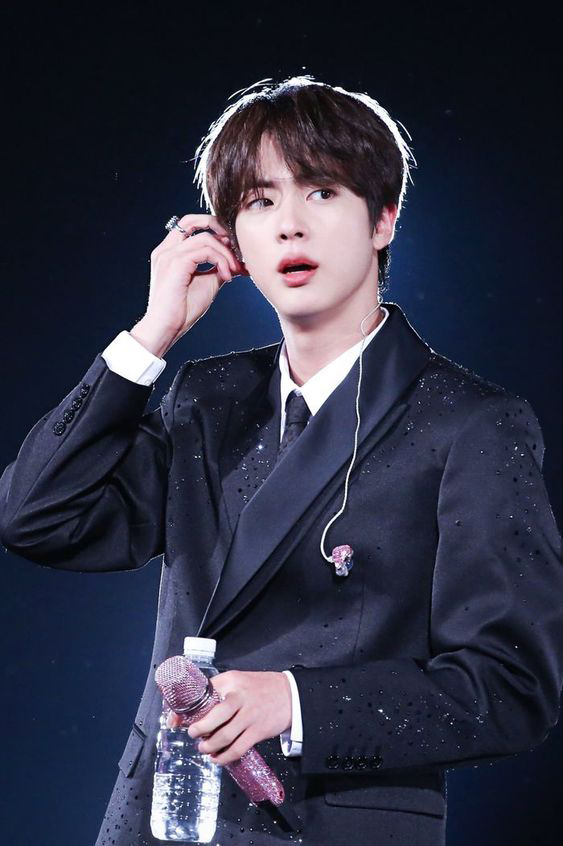
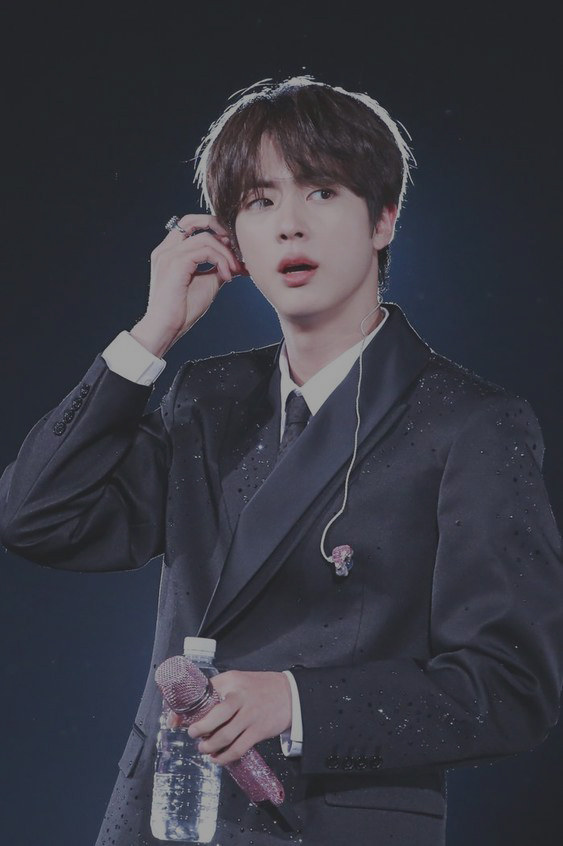
.

diff --git a/css/style.css b/css/style.css
@@ -67,6 +67,7 @@ html::-webkit-scrollbar{
 body{
     -ms-overflow-style: none;
     font-family: "roboto";
+    color: #FEF3F6;
 }
 #wrapper{
     position: absolute;
@@ -84,11 +85,11 @@ body{
     position: fixed;
     width: 100%;
     height: 100vh;
-    background-image: linear-gradient(to bottom, #FE688C ,#FFBBA5);
+    background: rgb(255,181,184);
+background: linear-gradient(45deg, rgba(255,181,184,1) 0%, rgba(229,190,255,1) 50%, rgba(212,235,255,1) 100%);
 }
 #article1{
     position: absolute;
-    color: rgb(255, 255, 255);
     z-index: 1;
     top: 6vw;
     width: 87vw;
@@ -99,7 +100,6 @@ body{
 }
 #article2{
     position: absolute;
-    color: rgb(255, 255, 255);
     z-index: 1;
     top: 0vw;
     width: 87vw;
@@ -109,7 +109,6 @@ body{
 .nav{
     position: fixed;
     font-family: "roboto";
-    color: white;
     font-size: 1.5em;
     margin: 1vw 1vw;
     cursor: pointer;
@@ -169,7 +168,6 @@ body{
 #title{
     position: absolute;
     font-family: "primetime";
-    color: #FEF3F6;
     font-size: 3vw;
     top: 22vw;
     letter-spacing: 0.5em;
@@ -189,7 +187,6 @@ body{
 #area{
     position: absolute;
     font-family: "primetime";
-    color: #FEF3F6;
     font-size: 3vw;
     z-index: 2;
     top: 28vw;
@@ -209,13 +206,11 @@ body{
 #h3_1{
     position: relative;
     font-family: "primetime";
-    color: white;
     font-size: 3vw;
     letter-spacing: 0.5em;
     margin-top: 3vw;
     left: 20%;
     width: 53%;
-    opacity: 79%;
     width: 100%;
     height: 4vw;
     overflow: hidden;
@@ -223,13 +218,11 @@ body{
 #h3_2{
     position: relative;
     font-family: "primetime";
-    color: white;
     font-size: 3vw;
     letter-spacing: 0.5em;
     top: -.5vw;
     left: 20%;
     width: 53%;
-    opacity: 79%;
     width: 100%;
     height: 4vw;
     overflow: hidden;
@@ -255,7 +248,7 @@ body{
     z-index: -1;
 }
 #dynamitev{
-    opacity: 64%;
+    opacity: 93%;
     width: 32%;
     position: absolute;
     top: 18vw;
@@ -273,13 +266,11 @@ body{
 #light{
     position: relative;
     font-family: "primetime";
-    color: white;
     font-size: 3vw;
     letter-spacing: 0.5em;
     margin-top: 24vw;
     left: 50%;
     width: 52%;
-    opacity: 79%;
     height: 4vw;
     overflow: hidden;
 }
@@ -291,9 +282,7 @@ body{
 }
 #light_1{
     position: relative;
-    color: white;
-    opacity: 79%;
-    margin-top: 5vw;
+    margin-top: 2vw;
     text-align: right;
 }
 #light_1 p{
@@ -301,44 +290,36 @@ body{
 }
 #light_2{
     position: relative;
-    color: white;
-    opacity: 79%;
     width: 38%;
     left: 50%;
-    margin-top: 5vw;
+    margin-top: 8vw;
 }
 #billion{
     position: relative;
     font-family: "primetime";
-    color: white;
     font-size: 3vw;
     letter-spacing: 0.5em;
     margin-top: 34vw;
     left: 59%;
     transform: translateX(-50%);
     width: 100%;
-    opacity: 79%;
 }
 #billion_1{
-    opacity: 64%;
     width: 30%;
     position: absolute;
     top: 84vw;
     left: 50%;
+    opacity: 71%;
     z-index: -1;
 }
 #billion_2{
     position: relative;
-    color: white;
-    opacity: 79%;
     width: 38%;
     left: 0%;
     margin-top: 5vw;
 }
 #billion_3{
     position: relative;
-    color: white;
-    opacity: 79%;
     width: 38%;
     left: 0%;
     margin-top: 5vw;
@@ -346,11 +327,9 @@ body{
 #about{
     position: relative;
     font-family: "primetime";
-    color: white;
     font-size: 5vw;
     left: 0%;
     width: 50%;
-    opacity: 79%;
 }
 #members{
     position: relative;
@@ -366,7 +345,6 @@ body{
     top: 21vw;
     font-size: 5vw;
     left: 50%; transform: translateX(-50%) rotate(90deg);
-    opacity: 77%;
 }
 #v{
     width: 27%;
@@ -475,12 +453,10 @@ p{
     word-spacing: .1vw;
     line-height: 1.2em;
     margin-top: 1vw;
-    color: white;
 }
 #playlist{
     position: relative;
     font-family: "primetime";
-    color: #F8F5F8;
     font-size: 7vw;
     margin-top: 15vw;
     left: 50%; transform: translateX(-50%);
@@ -521,7 +497,6 @@ p{
     width: 100%;
     text-align: center;
     font-family: "coachella";
-    color: white;
     position: absolute;
 
     top: 11%;
@@ -542,7 +517,6 @@ ul{
 li{
     display: inline;
     font-family: "primetime";
-    color: #F8F5F8;
     font-size: 3.3vw;
     cursor: pointer;
     left: 0vw;
@@ -558,7 +532,6 @@ li{
 #discography{
     position: relative;
     font-family: "primetime";
-    color: white;
     font-size: 4vw;
     margin-top: 34vw;
     left: 0;

diff --git a/js/script.js b/js/script.js
@@ -2,7 +2,7 @@ $(document).ready(function(){
     //animation
     var article = $(".article");
     gsap.to(article[0],{display: "block"});
-    gsap.fromTo("#main1",{opacity:0, top: "-="+3+"vw"}, {top: "+="+3+"vw", opacity:"61%",ease:"Power3.easeOut", duration:2, delay:.1})
+    gsap.fromTo("#main1",{opacity:0, top: "-="+3+"vw"}, {top: "+="+3+"vw", opacity:"70%",ease:"Power3.easeOut", duration:2, delay:.1})
     gsap.fromTo("#main2",{opacity:0, top: "+="+3+"vw"}, {top: "-="+3+"vw", opacity:"70%",ease:"Power3.easeOut", duration:2, delay:.1})
     gsap.fromTo("#main3",{opacity:0, top: "-="+3+"vw"}, {top: "+="+3+"vw", opacity:"65%",ease:"Power3.easeOut", duration:2, delay:.1})
     gsap.fromTo("#title span",{top: "+="+3+"vw"}, {top: 0,ease:"Power3.easeOut", duration:2, delay:.5})
@@ -25,7 +25,7 @@ $(document).ready(function(){
         gsap.fromTo("#h3_2 span",{top: "+="+3+"vw"}, {top: 0,ease:"Power3.easeOut", duration:2, delay:2.2})
         gsap.fromTo("#dynamite_1",{opacity:0}, {opacity:1, ease:"Power3.easeOut", duration:2, delay:2.2})
         gsap.fromTo("#dynamiterm",{opacity:0, top: "-="+3+"vw"}, {opacity:"64%", top:"+="+3+"vw", ease:"Power3.easeOut", duration:2, delay:2.7})
-        gsap.fromTo("#dynamitev",{opacity:0, top: "-="+3+"vw"}, {opacity:"64%", top:"+="+3+"vw", ease:"Power3.easeOut", duration:2, delay:2.8})
+        gsap.fromTo("#dynamitev",{opacity:0, top: "-="+3+"vw"}, {opacity:"73%", top:"+="+3+"vw", ease:"Power3.easeOut", duration:2, delay:2.8})
         gsap.fromTo("#dynamitejin",{opacity:0, top: "-="+3+"vw"}, {opacity:"64%", top:"+="+3+"vw", ease:"Power3.easeOut", duration:2, delay:2.5})
         gsap.fromTo("#light span",{top: "+="+3.05+"vw"}, {top: 0,ease:"Power3.easeOut", duration:2, delay:3.2})
     });

diff --git a/index.html b/index.html
@@ -18,7 +18,7 @@
     <!-- maimpage -->
     <div id="wrapper">
         <div class="article">
-            <img id="main1" src="./img/main1.jpg" alt="">
+            <img id="main1" src="./img/dynamitev.jpg" alt="">
             <img id="main2" src="./img/main2.jpg" alt="">
             <img id="main3" src="./img/main3.jpg" alt="">
             <div id="title"><span>REFLECTION OF YOUTH</span></div>
